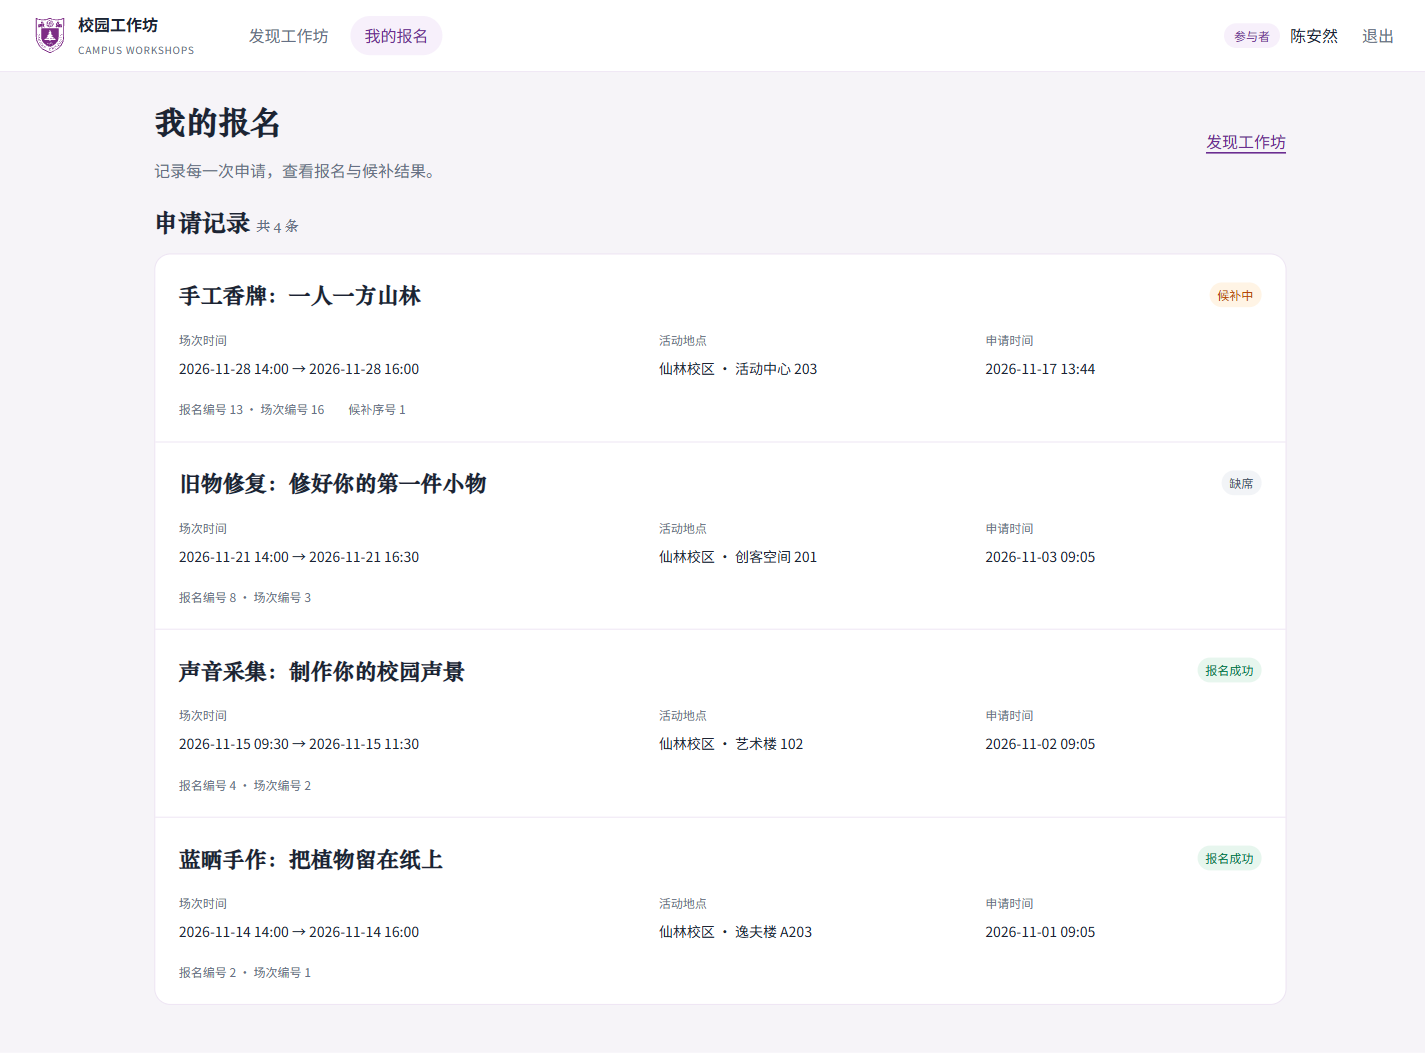
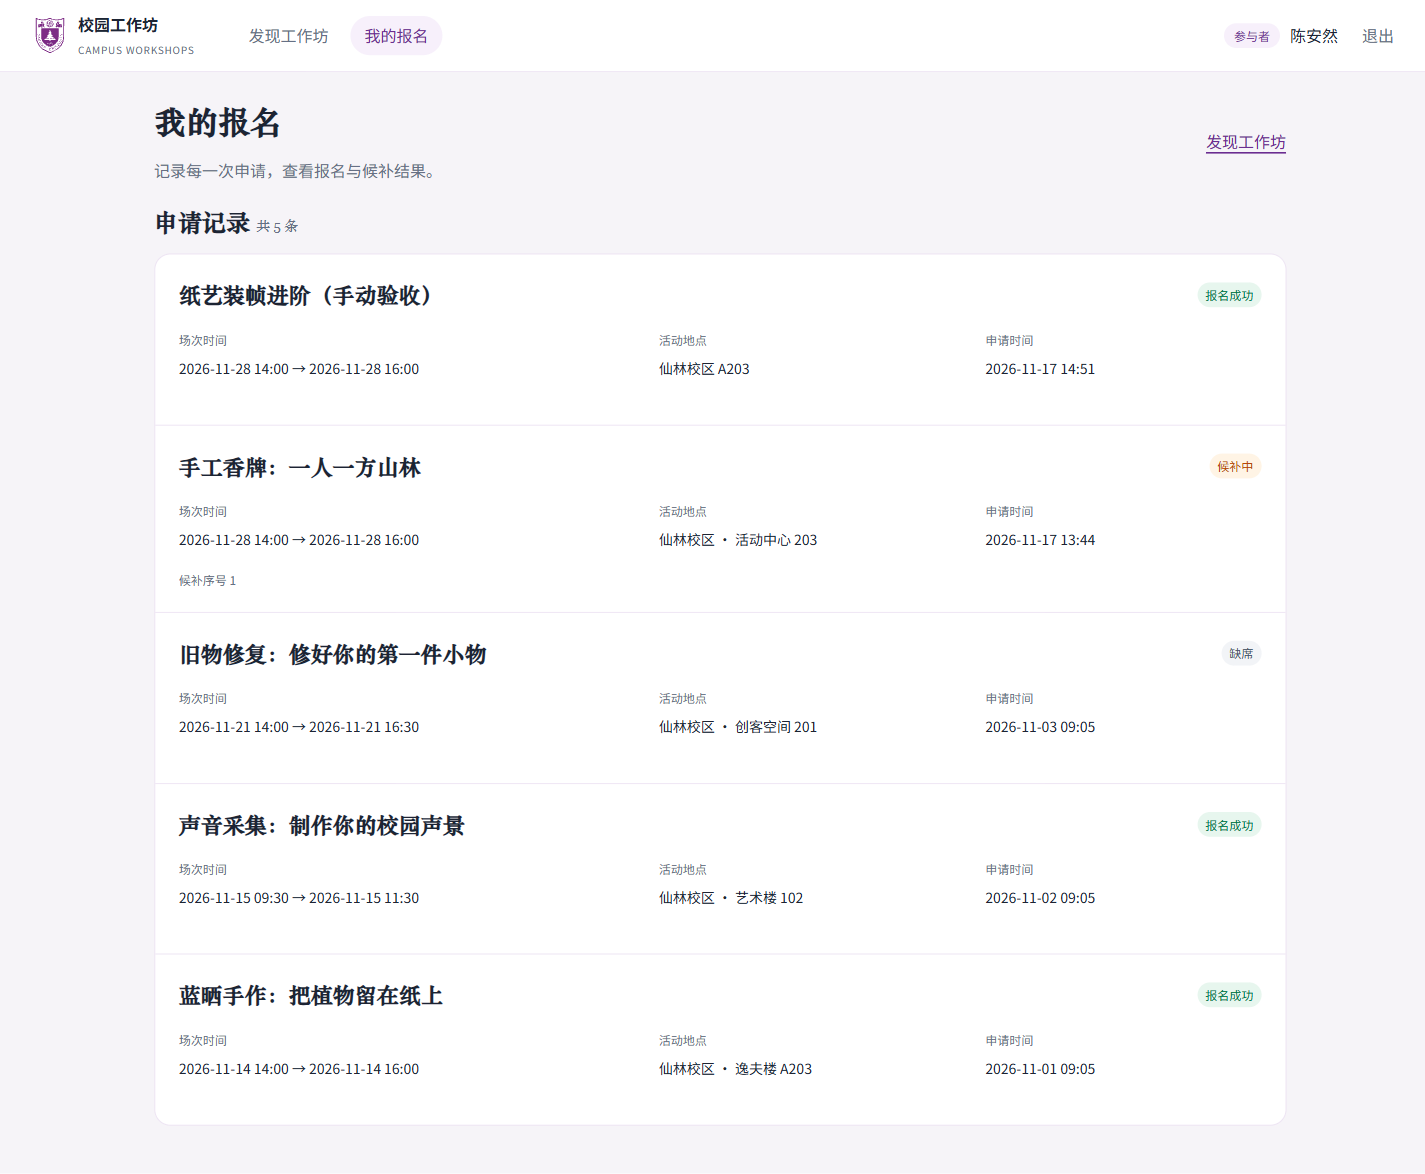
简化我的报名编号展示

diff --git a/code/src/main/resources/templates/my-registrations.html b/code/src/main/resources/templates/my-registrations.html
@@ -40,10 +40,9 @@
               <dd th:text="${#temporals.format(item.registeredAt, 'yyyy-MM-dd HH:mm')}">申请时间</dd>
             </div>
           </dl>
-          <div class="registration-meta">
-            <span th:text="'报名编号 ' + ${item.id} + ' · 场次编号 ' + ${item.sessionId}">报名与场次编号</span>
-            <span th:if="${item.status.name() == 'WAITLIST' and item.waitlistOrder != null}"
-                th:text="'候补序号 ' + ${item.waitlistOrder}">候补序号</span>
+          <div class="registration-meta"
+              th:if="${item.status.name() == 'WAITLIST' and item.waitlistOrder != null}">
+            <span th:text="'候补序号 ' + ${item.waitlistOrder}">候补序号</span>
           </div>
         </article>
       </div>

diff --git a/PROGRESS.md b/PROGRESS.md
@@ -2,7 +2,7 @@
 
 更新日期：2026-11-17。
 
-当前阶段：M2，T3 报名与候补已实现，等待 PR 审查。
+当前阶段：M2，T3 报名与候补已完成并验收。
 
 ## 已完成
 
@@ -25,11 +25,12 @@
 - T3 完成报名、主动候补、重复申请处理、最后名额竞争、截止处理及“我的报名”；成功、失败和系统操作写入日志。
 - 41 个相关测试通过，打包成功，Checkstyle 0 违规。独立审查发现的截止后重试延迟关闭问题已修复，复核通过。
 - 浏览器完成报名、主动候补和本人结果查询；提交后人数和状态原地更新，滚动位置保持不变。README 和 PR 截图已更新。
+- 根据使用反馈，“我的报名”隐藏报名编号和场次编号，保留候补序号。
 
 ## 当前工作
 
-T3 位于 `task/t3-registration-waitlist`，等待 PR 审查与合并。
+T3 已验收，进入 T4 准备阶段。
 
 ## 下一步
 
-T3 合并后开始 T4：取消报名、退出候补、自动递补和容量调整。
+T4：取消报名、退出候补、自动递补和容量调整。
